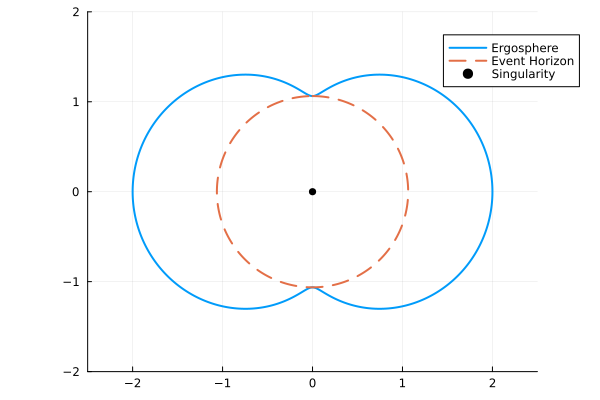
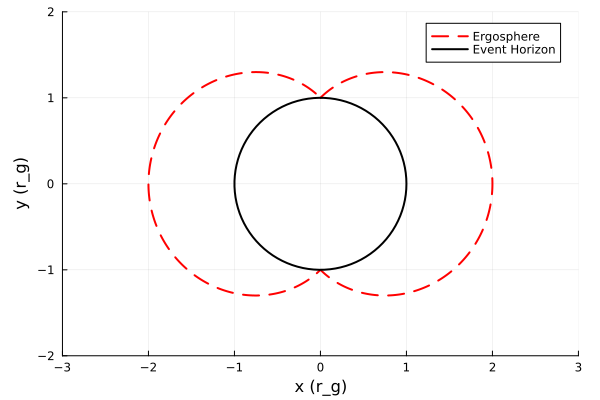
ergosphere

diff --git a/docs/src/kerr.md b/docs/src/kerr.md
@@ -337,43 +337,40 @@ The ergosphere is a region outside the event horizon of a Kerr black hole where 
 ```
 
 ```julia
-using Plots
+using Gradus, Plots
 
 M = 1.0
-a = 0.998
+m = KerrMetric(M=M, a=1.0)
+
+p = Plots.plot(
+    aspect_ratio=1,
+    legend=:topright,
+    xlabel="x (r_g)",
+    ylabel="y (r_g)"
+)
 
 θ = range(0, 2π, length=1000)
 
-# Event Horizon
-r_plus = M + sqrt(M^2 - a^2)
-x_e = r_erg .* sin.(θ)
-y_e = r_erg .* cos.(θ)
+# Ergosphere radius
+r_erg = M .+ sqrt.(M^2 .- m.a^2 .* cos.(θ).^2)
 
-# Ergosphere
-r_erg = M .+ sqrt.(M^2 .- a^2 .* cos.(θ).^2)
-x_h = r_plus .* sin.(θ)
-y_h = r_plus .* cos.(θ)
+# Convert to Cartesian coordinates
+x_erg = r_erg .* sin.(θ)
+y_erg = r_erg .* cos.(θ)
 
-# Plot ergosphere
-Plots.plot(x_e, y_e,
-    aspect_ratio=1,
+# Plot Ergosphere
+Plots.plot!(p, x_erg, y_erg,
     label="Ergosphere",
-    linewidth=2,
-    xlims=(-2.5, 2.5),   # must be inside plot()
-    ylims=(-2, 2),
-    legend=(0.9, 0.9))
+    lw=2,
+    linestyle=:dash,
+    color=:red
+)
 
-# Plot event horizon
-Plots.plot!(x_h, y_h,
-    label="Event Horizon",
-    linewidth=2,
-    linestyle=:dash)
+Plots.xlims!(-3, 3)
+Plots.ylims!(-2, 2)
 
-# Plot singularity
-Plots.scatter!([0], [0],
-    color=:black,
-    markersize=4,
-    label="Singularity")
+# Event horizon
+plot_horizon!(m, lw=2, color=:black, label="Event Horizon")
 ```
 ```@raw html
 </details>
